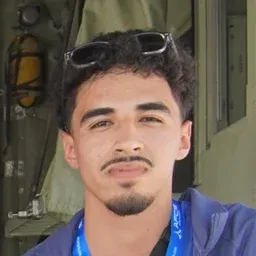
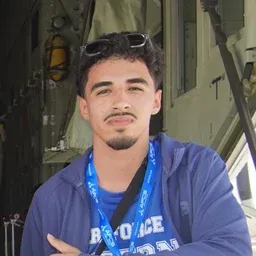
CP-268: wider headshot crop; 'Results, not promises.' headline

diff --git a/apps/venues/components/landing/results-showcase.tsx b/apps/venues/components/landing/results-showcase.tsx
@@ -55,12 +55,13 @@ export function ResultsShowcase() {
   const muted = c.placeholder;
 
   return (
-    <section aria-label="Results" className="border-t border-[#0B1B2B]/8 bg-white py-14 sm:py-20"
+    <section aria-labelledby="results-h" className="border-t border-[#0B1B2B]/8 bg-white py-14 sm:py-20"
       onMouseEnter={() => setPaused(true)} onMouseLeave={() => setPaused(false)} onFocus={() => setPaused(true)} onBlur={() => setPaused(false)}>
       <div className="s-wrap">
         <p className="text-center text-[13px] font-semibold uppercase tracking-[0.12em] text-[#0B5FD6]">Results</p>
+        <h2 id="results-h" className="mx-auto mt-2 max-w-[18ch] text-center text-[clamp(2rem,1.4rem+2.6vw,3.25rem)] font-bold leading-[1.04] tracking-[-0.035em] text-[#0B1B2B]">Results, not promises.</h2>
 
-        <div className="mx-auto mt-8 grid max-w-[1180px] gap-8 lg:grid-cols-[280px_minmax(0,1fr)] lg:items-center lg:gap-12">
+        <div className="mx-auto mt-10 grid max-w-[1180px] gap-8 lg:grid-cols-[280px_minmax(0,1fr)] lg:items-center lg:gap-12">
           {/* The numbers (under the photo on a phone) */}
           <div className="order-2 lg:order-1" aria-live="polite">
             <dl className="grid grid-cols-2 gap-6 lg:grid-cols-1 lg:gap-9">
